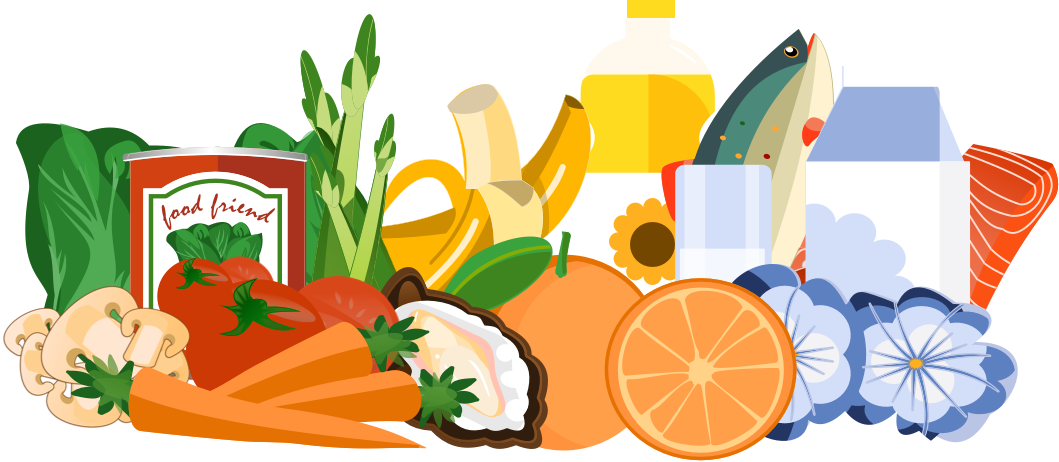
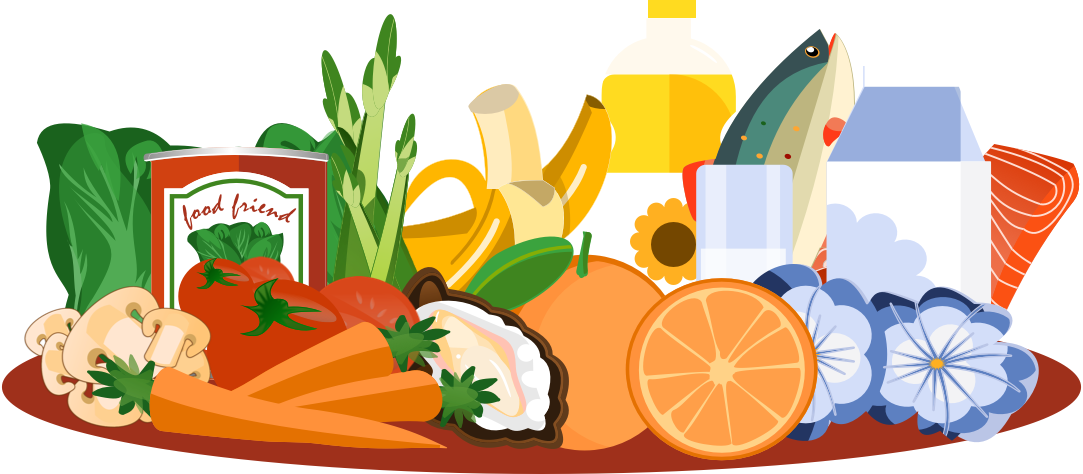
fix bug & update header image

diff --git a/components/FoodSection/index.js b/components/FoodSection/index.js
@@ -17,6 +17,8 @@ class FoodSection extends React.Component {
     this.setState({activeScreen: screenName});
   };
   renderActiveScreen = () => {
+    const {user} = this.props;
+    if (!user && !user.activePath) return;
     // do not allow user to access the following pages without selecting a path.
     if (this.state.activeScreen === 'nutrientFoods')
       return this.renderNutrientFoodsScreen();
@@ -82,7 +84,7 @@ const styles = StyleSheet.create({
     width: normalize(354),
     height: undefined,
     // aspectRatio: width / height,
-    aspectRatio: 354 / 154,
+    aspectRatio: 361 / 158,
   },
   navBarWhiteSpace: {
     backgroundColor: '#ffffff',
